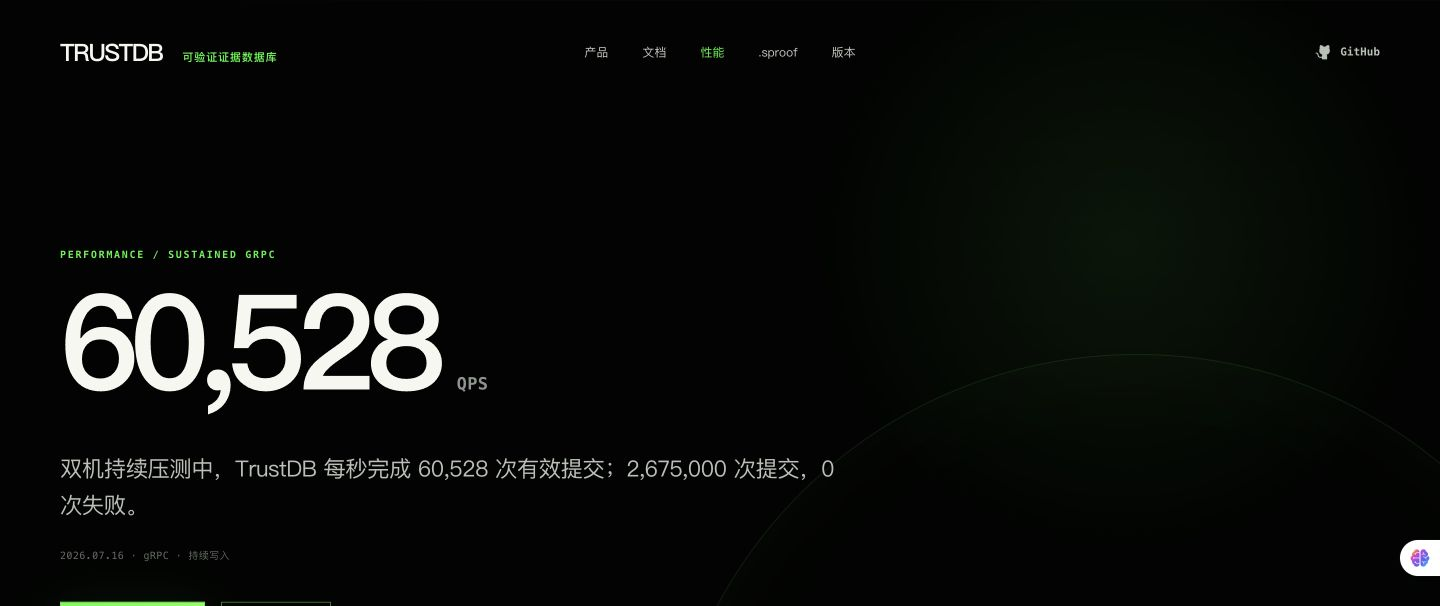
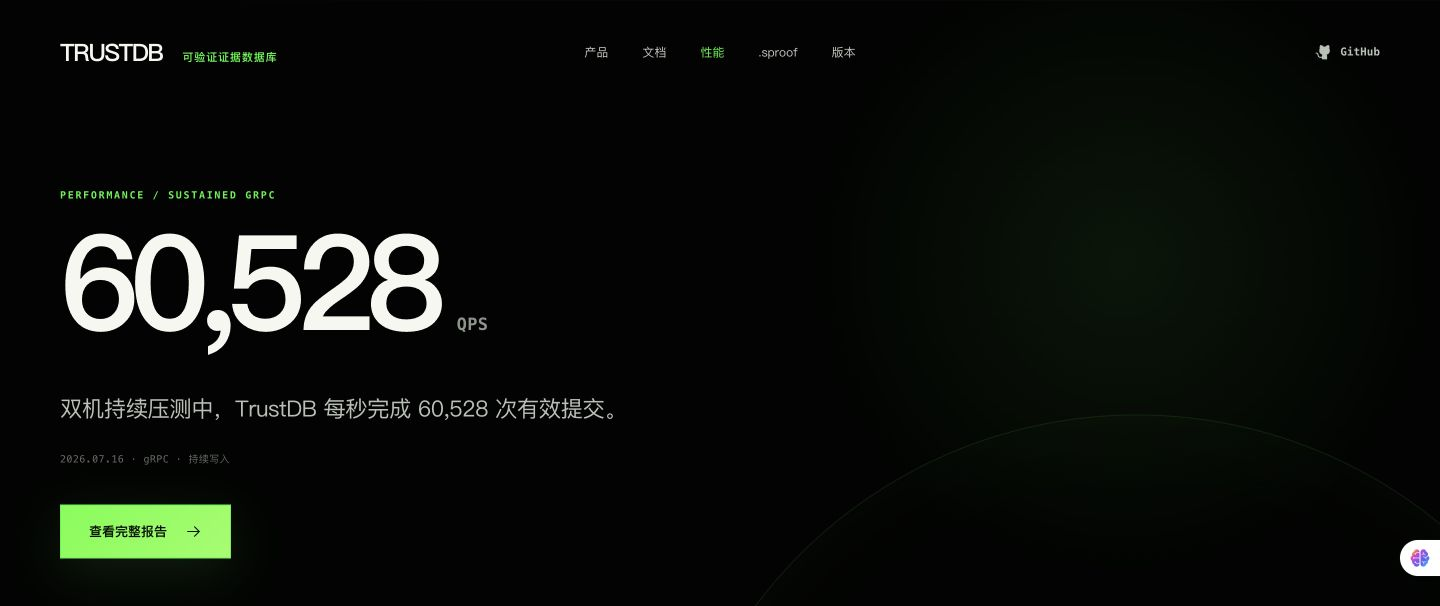
refactor(website): focus performance page on headline qps

diff --git a/website/src/pages/PerformancePage.jsx b/website/src/pages/PerformancePage.jsx
@@ -1,91 +1,17 @@
-import { ArrowRight, Gauge, HardDrives } from "@phosphor-icons/react";
-import { InlineLink, PageHero } from "../components/SiteChrome";
-import { Link } from "../router";
-
-const transportMetrics = [
-  ["gRPC · submit", 60528, "60,528 /s", "HTTP / gRPC 同证明语义"],
-  ["HTTP · submit", 55125, "55,125 /s", "持续提交吞吐"],
-  ["gRPC · L3", 20127, "20,127 /s", "证明已物化"],
-  ["HTTP · L3", 14797, "14,797 /s", "证明已物化"],
-];
-
-const profiles = [
-  ["balanced", "37,443", "6,377 L4/s", "group fsync · 平衡写入与证明"],
-  ["production-safe", "23,562", "4,569 L4/s", "持久化 L4/L5 端到端基线"],
-  ["production-guaranteed", "1,043", "1,033 L4/s", "strict fsync · 完整索引"],
-  ["strict + real OTS", "—", "143.7 L5/s", "汇总树根锚定；10 / 10 成功"],
-];
+import { ArrowRight } from "@phosphor-icons/react";
+import { PageHero } from "../components/SiteChrome";
 
 export function PerformancePage() {
-  const max = Math.max(...transportMetrics.map(([, value]) => value));
   return (
-    <>
-      <PageHero eyebrow="Performance / Sustained gRPC" title={<>60,528<small> QPS</small></>} lead="双机持续压测中，TrustDB 每秒完成 60,528 次有效提交；2,675,000 次提交，0 次失败。" meta="2026.07.16 · gRPC · 持续写入">
-        <div className="page-hero__actions"><a className="button button--solid" href="https://github.com/ryan-wong-coder/trustdb/blob/main/docs/performance/trustdb-performance-report-2026-07-16.zh-CN.md" target="_blank" rel="noreferrer">完整报告 <ArrowRight /></a><Link className="button button--ghost" href="/docs/server">部署文档</Link></div>
-      </PageHero>
-
-      <section className="perf-report section-shell">
-        <div className="perf-report__heading" data-reveal><p>Executive summary</p><h2>六个维度，<br />一起读。</h2><span>任何单一 QPS 都无法描述一个证据数据库。下面的结论共享同一批双机实验背景，但适用配置不同。</span></div>
-        <div className="perf-report__grid">
-          <article data-reveal><span>INGEST</span><strong>60,528/s</strong><h3>持续提交</h3><p>gRPC 最高持续 submit；HTTP 为 55,125/s。</p></article>
-          <article data-reveal><span>PROOF READY</span><strong>20,127/s</strong><h3>L3 物化</h3><p>gRPC 下证明已经生成并可读取，不只拿到 L2 收据。</p></article>
-          <article data-reveal><span>DURABILITY</span><strong>1,043/s</strong><h3>严格写盘配置</h3><p>strict fsync 与完整索引下 1,033 L4/s。</p></article>
-          <article data-reveal><span>TRANSPARENCY</span><strong>6,377/s</strong><h3>平衡 L4</h3><p>balanced 配置下进入全局透明日志的证明吞吐。</p></article>
-          <article data-reveal><span>EXTERNAL TIME</span><strong>143.7/s</strong><h3>汇总树根锚定</h3><p>处理的是已经汇总过的少量树根，不是逐个处理原始文件。</p></article>
-          <article data-reveal><span>STORAGE</span><strong>40 tiles</strong><h3>历史树压缩</h3><p>8192 叶批次从约 24,575 个历史对象降至 40 个。</p></article>
-        </div>
-        <aside className="perf-report__note" data-reveal><strong>为什么 143.7/s 不能和写入吞吐直接相比？</strong><p>大量记录会先汇总成批次根，再汇总成全局树根，最后才交给 OpenTimestamps。这个数字衡量的是汇总结果的锚定速度，不是原始文件的处理上限。</p></aside>
-      </section>
-
-      <section className="perf-overview section-shell">
-        <div className="perf-overview__heading" data-reveal><p>Sustained throughput</p><h2>吞吐与证明，<br />分开衡量。</h2><span>提交成功并不代表高等级证明已经可读。这里把 submit 与 L3 materialized 分列。</span></div>
-        <div className="metric-bars" data-reveal>
-          {transportMetrics.map(([label, value, display, note]) => (
-            <div className="metric-bar" key={label}>
-              <div><strong>{label}</strong><b>{display}</b></div>
-              <div className="metric-bar__track"><i className="metric-bar__fill" style={{ "--metric-scale": value / max }} /></div>
-              <span>{note}</span>
-            </div>
-          ))}
-        </div>
-      </section>
-
-      <section className="perf-proof">
-        <div className="section-shell">
-          <div className="perf-stat-grid">
-            <article data-reveal><span>01</span><strong>2,675,000</strong><p>有效提交样本</p><small>所有统计均来自完整报告中的双机实验。</small></article>
-            <article data-reveal><span>02</span><strong>0</strong><p>提交失败</p><small>报告覆盖的有效工作负载中没有失败提交。</small></article>
-            <article data-reveal><span>03</span><strong>40</strong><p>8192 叶批次的历史 tiles</p><small>从约 24,575 个历史对象降到 40 个。</small></article>
-            <article data-reveal><span>04</span><strong>143.7/s</strong><p>汇总树根锚定</p><small>数据已经逐级汇总；10 / 10 锚定成功。</small></article>
-          </div>
-        </div>
-      </section>
-
-      <section className="profile-section section-shell">
-        <div className="profile-section__heading" data-reveal><p>Operational profiles</p><h2>你选择的耐久性，<br />决定数字的含义。</h2></div>
-        <div className="profile-table" data-reveal>
-          <div className="profile-table__head"><span>配置</span><span>提交吞吐</span><span>证明吞吐</span><span>适用场景</span></div>
-          {profiles.map(([name, submit, proof, note]) => <div key={name}><strong>{name}</strong><b>{submit}</b><b>{proof}</b><p>{note}</p></div>)}
-        </div>
-      </section>
-
-      <section className="pipeline-report">
-        <div className="section-shell pipeline-report__layout">
-          <div className="pipeline-report__heading" data-reveal><HardDrives /><p>Implementation report</p><h2>瓶颈被拆成了<br />可调的流水线。</h2></div>
-          <div className="pipeline-report__steps">
-            <article data-reveal><span>01</span><h3>Plan</h3><p>接收记录先安全写入，再安排批次，避免证明计算拖慢所有请求。</p></article>
-            <article data-reveal><span>02</span><h3>Materialize</h3><p>有界 worker 异步生成 Merkle proofs，manifest 让任务可恢复。</p></article>
-            <article data-reveal><span>03</span><h3>Global log</h3><p>批次根成组进入透明日志，history tiles 控制对象数量与读放大。</p></article>
-            <article data-reveal><span>04</span><h3>Anchor</h3><p>独立 OTS workers 发布与升级锚定，不把公共日历网络延迟扩散到 ingest。</p></article>
-          </div>
-        </div>
-      </section>
-
-      <section className="testbed section-shell">
-        <div className="testbed__title" data-reveal><Gauge /><p>Test environment</p><h2>基准环境</h2></div>
-        <div className="testbed__facts" data-reveal><div><strong>32 vCPU</strong><span>计算节点</span></div><div><strong>61 GiB</strong><span>内存</span></div><div><strong>Go 1.26.3</strong><span>运行时</span></div><div><strong>0.158 ms</strong><span>VPC RTT</span></div><div><strong>70 GiB</strong><span>云盘</span></div><div><strong>OpenCloudOS 9.6</strong><span>系统</span></div></div>
-        <div className="testbed__links"><InlineLink href="https://github.com/ryan-wong-coder/trustdb/blob/main/docs/performance/trustdb-performance-report-2026-07-16.zh-CN.md">完整测试报告</InlineLink><InlineLink href="https://github.com/ryan-wong-coder/trustdb/blob/main/docs/performance/trustdb-performance-optimization-2026-07.zh-CN.md">实现与优化说明</InlineLink></div>
-      </section>
-    </>
+    <PageHero eyebrow="Performance / Sustained gRPC" title={<>60,528<small> QPS</small></>} lead="双机持续压测中，TrustDB 每秒完成 60,528 次有效提交。" meta="2026.07.16 · gRPC · 持续写入">
+      <div className="page-hero__actions">
+        <a className="button button--solid" href="https://github.com/ryan-wong-coder/trustdb/blob/main/docs/performance/trustdb-performance-report-2026-07-16.zh-CN.md" target="_blank" rel="noreferrer">查看完整报告 <ArrowRight /></a>
+      </div>
+      <div className="performance-proofline" aria-label="测试概况">
+        <div><strong>2,675,000</strong><span>有效提交</span></div>
+        <div><strong>0</strong><span>失败</span></div>
+        <div><strong>60,528/s</strong><span>持续 gRPC</span></div>
+      </div>
+    </PageHero>
   );
 }

diff --git a/website/src/styles.css b/website/src/styles.css
@@ -131,6 +131,10 @@ button { font: inherit; }
 .page-hero__lead { max-width: 780px; margin: 54px 0 0; color: #b8c0b6; font-size: clamp(17px, 1.55vw, 23px); line-height: 1.65; letter-spacing: -.02em; }
 .page-hero__meta { margin: 24px 0 0; color: #626b61; font: 10px/1.5 monospace; letter-spacing: .04em; }
 .page-hero__actions { display: flex; gap: 16px; margin-top: 38px; }
+.performance-proofline { width: min(760px, 100%); margin-top: 64px; display: grid; grid-template-columns: repeat(3, 1fr); border-top: 1px solid var(--line); border-left: 1px solid var(--line); }
+.performance-proofline > div { min-height: 92px; padding: 21px 22px; display: flex; flex-direction: column; justify-content: space-between; border-right: 1px solid var(--line); border-bottom: 1px solid var(--line); }
+.performance-proofline strong { font-size: 20px; letter-spacing: -.035em; }
+.performance-proofline span { color: #6f786d; font: 10px/1 monospace; }
 .inline-link { display: inline-flex; align-items: center; gap: 10px; color: var(--acid); font-size: 12px; font-weight: 700; }
 .inline-link svg { width: 14px; height: 14px; transition: transform .25s ease; }
 .inline-link:hover svg { transform: translate(3px, -3px); }
@@ -466,6 +470,8 @@ button { font: inherit; }
   .page-hero h1 small { display: block; margin: 20px 0 0; }
   .page-hero__lead { margin-top: 38px; font-size: 16px; }
   .page-hero__actions { flex-direction: column; max-width: 360px; }
+  .performance-proofline { margin-top: 45px; grid-template-columns: 1fr; }
+  .performance-proofline > div { min-height: 72px; }
   .why-trustdb { padding: 90px 0; }
   .why-trustdb__layout, .ecosystem__heading, .docs-persuasion > .docs-persuasion__layout, .perf-report__heading, .pipeline-report__layout { grid-template-columns: 1fr; gap: 55px; }
   .why-trustdb__copy p:first-child { font-size: 16px; }